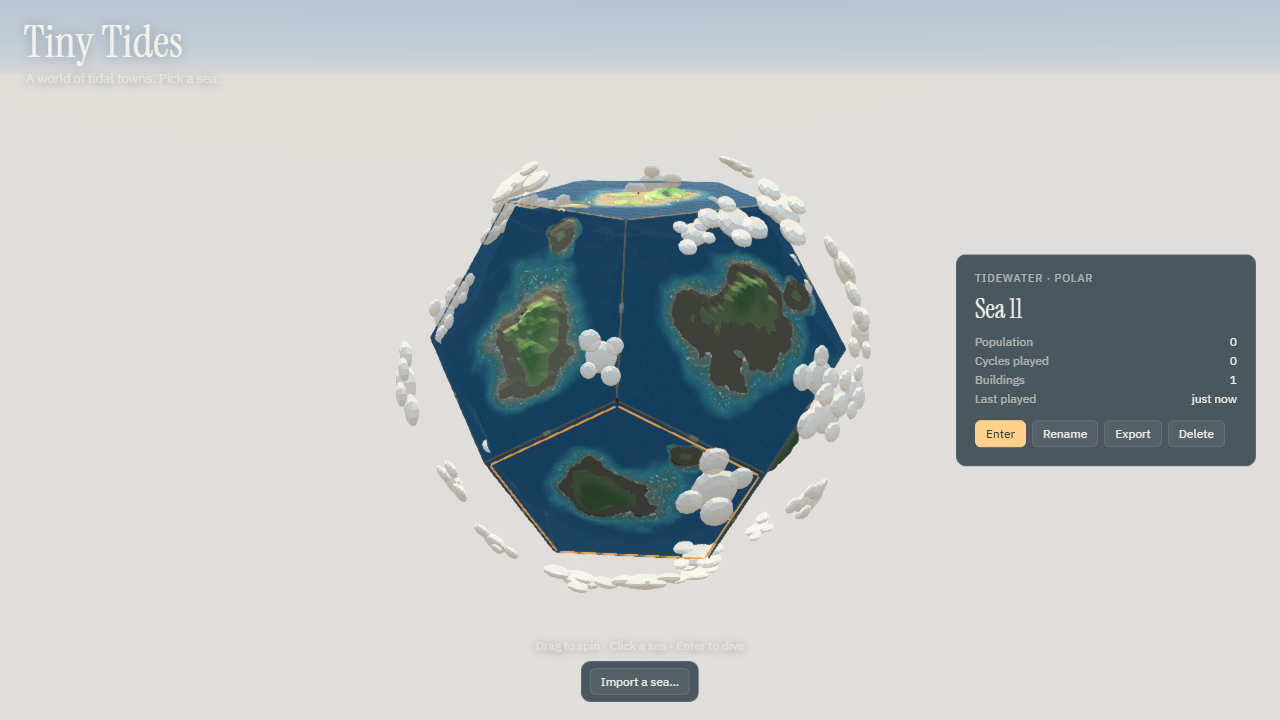
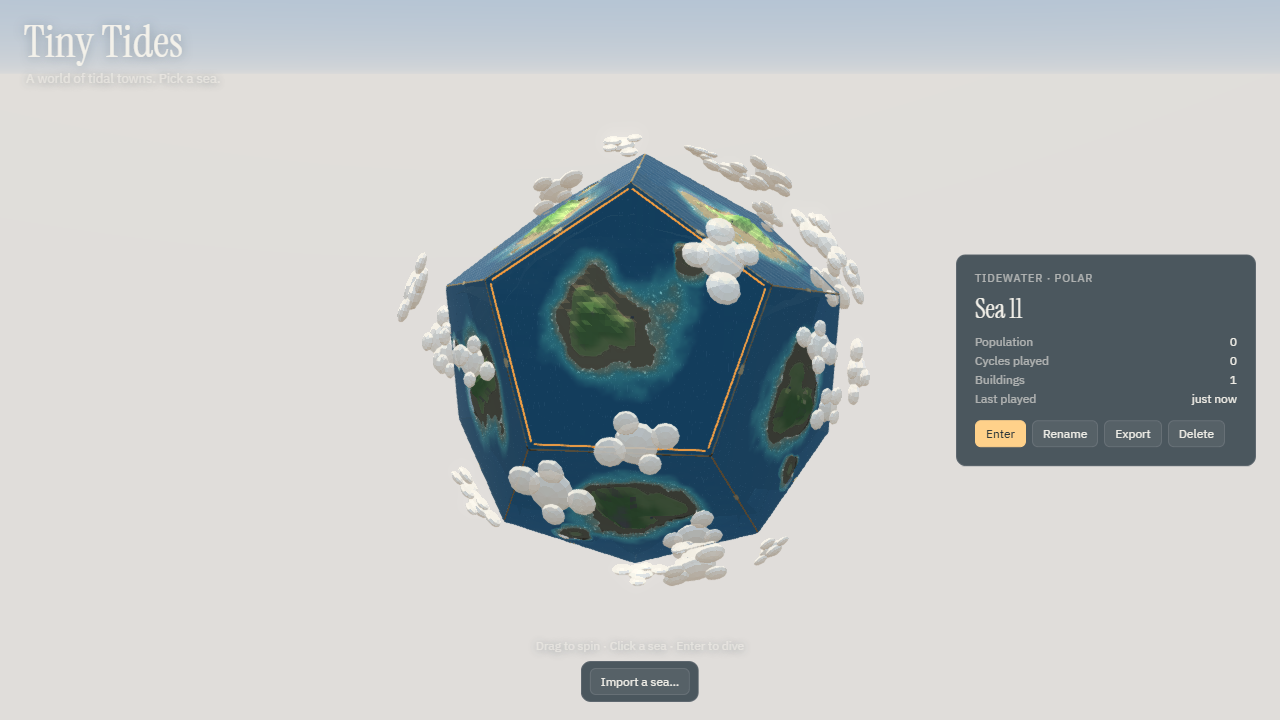
globe: the spin stays unit length — a hard fling no longer scales the globe over the camera
Grady found that fast drags from the edge of the screen ended with the camera far inside the globe or
under the water. The spin quaternion drifted off unit length through the per-event turns, and Babylon
renders a non-unit rotation quaternion as a scale, so the globe grew around the fixed camera. Every
turn and every slerp step now normalizes; a smoke check flings the globe hard from the corners and
asserts its size and the camera's distance.

Changed region(s): [[0.3125, 0.1833, 0.6875, 0.825]]

diff --git a/test/smoke.ts b/test/smoke.ts
@@ -1269,6 +1269,19 @@ try {
   console.log("World keyboard:", JSON.stringify({ kb0, kb1, spun, dragged, kb2, kb3, kb4 }));
   assert(kb0.card === null && Math.abs(spun - 0.4) < 0.02 && kb1.at.x > kb0.at.x + 20 && kb1.card === null, "Escape closes the card; ArrowRight turns the globe 0.4 rad, the front face moving right");
   assert(dragged.right > 20 && dragged.down > 20, "a drag takes the globe with the pointer: " + JSON.stringify(dragged));
+  // Flinging the globe hard from the corners (Grady's bug: the spin drifted off unit length and became a scale,
+  // putting the camera under the water) leaves it the same size, on the orbit camera at the same distance.
+  for (let k = 0; k < 24; k++) {
+    const x0 = k % 2 ? 40 : 1240, y0 = k % 4 < 2 ? 30 : 690, x1 = 640 + (k % 3 - 1) * 900, y1 = 360 + (k % 5 - 2) * 500;
+    await page.mouse.move(x0, y0); await page.mouse.down(); await page.mouse.move(x1, y1, { steps: 2 }); await page.mouse.up();
+    await page.waitForTimeout(25);
+  }
+  await page.waitForTimeout(1200);
+  const flung = await page.evaluate(() => { const api = (window as unknown as { __tidewater: Api }).__tidewater; const c = api.world.scene.activeCamera!; return { scale: api.world.scale(), camera: c.name, dist: c.position.length(), pose: api.world.pose() }; });
+  console.log("World fling:", JSON.stringify(flung));
+  assert(Math.abs(flung.scale - 1) < 1e-3 && flung.camera === "worldCam" && Math.abs(flung.dist - 340) < 0.5, "hard flings leave the globe its size and the camera on its orbit");
+  await page.evaluate(() => (window as unknown as { __tidewater: Api }).__tidewater.world.lookAt(1));
+  await page.waitForTimeout(400);
   assert(kb2.card === kb1.front && kb2.built && kb3.mode === "island" && kb3.active === kb2.front && !kb3.menuOpen, "Enter opens the front face's card; Enter again dives into it");
   assert(kb4.mode === "world" && kb4.card === kb3.active, "Escape on the island returns to the World with the sea's card open");
   // Back onto the island for the frame-rate check.

diff --git a/src/globe/world.ts b/src/globe/world.ts
@@ -170,7 +170,8 @@ export class World {
   /** `q` followed by a turn of `angle` about a world-space `axis`. */
   private static turned(q: Quaternion, axis: Vector3, angle: number): Quaternion {
     if (angle === 0) return q.clone();
-    return Quaternion.FromRotationMatrix(q.toRotationMatrix(new Matrix()).multiply(Matrix.RotationAxis(axis, angle)));
+    // Always back to unit length: a quaternion that drifts off it becomes a scale on the globe.
+    return Quaternion.FromRotationMatrix(q.toRotationMatrix(new Matrix()).multiply(Matrix.RotationAxis(axis.normalizeToNew(), angle))).normalize();
   }
 
   /** A pointer drag of (dx, dy) pixels turns the globe about the camera's up and right axes. */
@@ -685,9 +686,9 @@ export class World {
         this.idle = since > IDLE_AFTER ? Math.min(1, this.idle + dt / IDLE_RAMP) : 0;
         if (this.idle > 0) { this.spinGoal = World.turned(this.spinGoal, Vector3.Up(), IDLE_RATE * outCubic(this.idle) * dt); this.spinNow = this.spinGoal.clone(); }
       }
-      if (!this.spinNow.equalsWithEpsilon(this.spinGoal, 1e-7)) Quaternion.SlerpToRef(this.spinNow, this.spinGoal, reduced ? 1 : 1 - Math.exp(-SPIN_EASE * dt), this.spinNow);
+      if (!this.spinNow.equalsWithEpsilon(this.spinGoal, 1e-7)) { Quaternion.SlerpToRef(this.spinNow, this.spinGoal, reduced ? 1 : 1 - Math.exp(-SPIN_EASE * dt), this.spinNow); this.spinNow.normalize(); }
     }
-    this.root.rotationQuaternion!.copyFrom(this.spinNow);
+    this.root.rotationQuaternion!.copyFrom(this.spinNow.normalize());
     const spinMat = this.spinNow.toRotationMatrix(new Matrix());
     // Hover lifts.
     for (const fv of this.faces) {

diff --git a/src/main.ts b/src/main.ts
@@ -755,6 +755,8 @@ const api = {
     globeY: () => world.globeY,
     /** The globe's spin as a quaternion [x, y, z, w]. */
     spin: () => world.spin.asArray(),
+    /** The globe's scale as rendered (the determinant of a sea's world matrix): 1 unless the spin has gone wrong. */
+    scale: () => { const m = world.faces[1].water; m.computeWorldMatrix(true); return m.getWorldMatrix().determinant(); },
     /** Spin the globe as a pointer drag of (dx, dy) pixels would (without the flick). */
     drag: (dx: number, dy: number) => { world.grab(); world.drag(dx, dy, false); world.release(); },
   },
